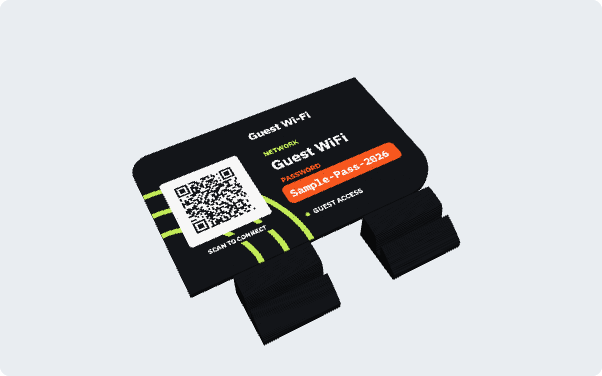
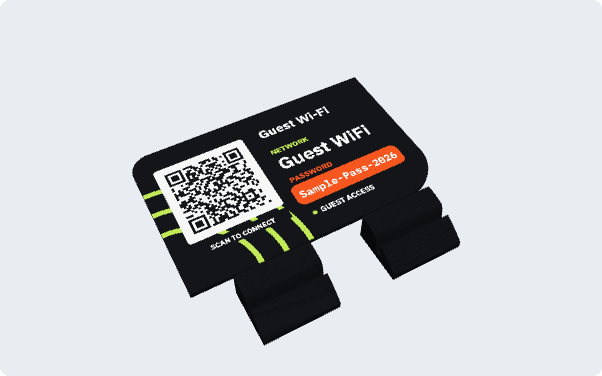
Enlarge QR and text to reduce empty space on the card

Changed region(s): [[0.2392, 0.2926, 0.6877, 0.6729]]

diff --git a/index.html b/index.html
@@ -60,7 +60,7 @@ button:hover:not(:disabled){filter:brightness(1.06)}
 .stage{display:grid;gap:16px;justify-items:center}
 .wifi-card{width:min(100%,640px);aspect-ratio:150/94;background:var(--c-base);color:var(--c-white);
   border-radius:8% 0 16% 0 / 12.766% 0 25.532% 0;
-  padding:5.5% 9% 11% 6.7%;position:relative;display:grid;grid-template-columns:auto 1fr;gap:6%;align-items:center;
+  padding:5.5% 6% 11% 6.7%;position:relative;display:grid;grid-template-columns:auto 1fr;gap:5%;align-items:center;
   container-type:inline-size;box-shadow:0 18px 40px -18px rgba(10,20,35,.55)}
 .wifi-card.framed::before{content:"";position:absolute;inset:3.191% 2%;border:2px solid var(--c-a1);pointer-events:none;
   border-radius:6.25% 0 14.58% 0 / 10.2% 0 23.9% 0}
@@ -71,17 +71,17 @@ button:hover:not(:disabled){filter:brightness(1.06)}
 .card-head{display:flex;align-items:center;gap:2.6cqi;min-width:0}
 .card-head svg{width:7cqi;height:auto;flex:none;color:var(--c-a1)}
 .card-head canvas{height:8cqi;width:auto;max-width:30cqi;flex:none}
-.card-title{font-size:4.6cqi;font-weight:700;line-height:1.15;overflow-wrap:anywhere}
-.k{font-size:2.6cqi;font-weight:700;margin:0;color:var(--c-a1)}
+.card-title{font-size:5.3cqi;font-weight:700;line-height:1.15;overflow-wrap:anywhere}
+.k{font-size:3cqi;font-weight:700;margin:0;color:var(--c-a1)}
 .k.pw{color:var(--c-a2)}
-.v{font-size:6cqi;font-weight:700;margin:0;line-height:1.25;overflow-wrap:anywhere}
-.v.pwv{font-family:"IBM Plex Mono",ui-monospace,Menlo,monospace;font-weight:600;justify-self:start;background:var(--c-a2);color:#fff;padding:.8cqi 2cqi;border-radius:2.3cqi;font-size:4.3cqi;white-space:nowrap}
-.card-foot{font-size:2.6cqi;font-weight:700;margin-top:1cqi;display:flex;align-items:center;gap:1.4cqi}
+.v{font-size:7.3cqi;font-weight:700;margin:0;line-height:1.25;overflow-wrap:anywhere}
+.v.pwv{font-family:"IBM Plex Mono",ui-monospace,Menlo,monospace;font-weight:600;justify-self:start;background:var(--c-a2);color:#fff;padding:.8cqi 2cqi;border-radius:2.6cqi;font-size:4.7cqi;white-space:nowrap}
+.card-foot{font-size:2.9cqi;font-weight:700;margin-top:1cqi;display:flex;align-items:center;gap:1.4cqi}
 .card-foot::before{content:"";width:1.4cqi;height:1.4cqi;border-radius:50%;background:var(--c-a1)}
 .qr-wrap{order:-1;align-self:end;display:grid;gap:1.4cqi;justify-items:center;position:relative;z-index:1}
-.qr-box{background:var(--c-white);border-radius:8px;padding:2cqi;width:30.67cqi}
+.qr-box{background:var(--c-white);border-radius:8px;padding:2cqi;width:36cqi}
 .qr-box svg{display:block;width:100%;height:auto}
-.qr-cap{font-size:2.3cqi;font-weight:700;background:var(--c-base);padding:.5cqi 1.6cqi;border-radius:1cqi}
+.qr-cap{font-size:2.6cqi;font-weight:700;background:var(--c-base);padding:.5cqi 1.6cqi;border-radius:1cqi}
 .actions{display:flex;flex-wrap:wrap;gap:8px;justify-content:center}
 .payload{font-family:ui-monospace,Menlo,monospace;font-size:.78rem;color:var(--muted);max-width:640px;width:100%;overflow-x:auto;white-space:nowrap;padding:8px 10px;border:1px dashed var(--line);border-radius:8px}
 
@@ -420,7 +420,7 @@ footer{grid-column:1/-1;font-size:.8rem;color:var(--muted);text-align:center}
     $("strength").textContent=sec==="nopass"?"":(warn||`推定強度: 約 ${entropyBits(m,pw)} bit`);
     $("cTitle").textContent=$("title").value;
     $("cSsid").textContent=$("ssid").value;
-    $("cPw").textContent=pw;$("cPw").style.fontSize=Math.min(4.3,44/Math.max(1,pw.length*.6))+"cqi";
+    $("cPw").textContent=pw;$("cPw").style.fontSize=Math.min(4.7,38/Math.max(1,pw.length*.6))+"cqi";
     $("cNetL").textContent=L.net;$("cPwL").textContent=L.pw;$("cScan").textContent=L.scan;
     $("cPwBlock").style.display=showPwOn()?"":"none";
     $("cFoot").textContent=$("foot").value;
@@ -474,7 +474,7 @@ footer{grid-column:1/-1;font-size:.8rem;color:var(--muted);text-align:center}
     // 左下を中心にした電波の弧。キャプション用に弧を切り欠く
     if(corner){const g=G.a1;g.lineWidth=S(3);g.lineCap="butt";
       for(const r of [38,52,66]){g.beginPath();g.arc(0,S(94),S(r),-Math.PI/2,0);g.stroke();}
-      g.globalCompositeOperation="destination-out";g.fillRect(S(11),S(72.5),S(44),S(6.5));g.globalCompositeOperation="source-over";g.lineCap="round";}
+      g.globalCompositeOperation="destination-out";g.fillRect(S(10),S(70),S(54),S(7.5));g.globalCompositeOperation="source-over";g.lineCap="round";}
     if($("frame").checked){G.a1.lineWidth=S(1.2);rrc(G.a1,S(3),S(3),S(144),S(88),[S(9),0,S(21),0]);G.a1.stroke();}
 
     // 見出し行: ロゴ（高さ12mm枠）または Wi-Fi アイコン + 見出し
@@ -482,23 +482,23 @@ footer{grid-column:1/-1;font-size:.8rem;color:var(--muted);text-align:center}
     if(logoImg){
       const asp=logoAspect(),lw=Math.min(12*asp,45),lh=lw/asp;
       const pw=Math.max(1,Math.round(S(lw))),ph=Math.max(1,Math.round(S(lh)));
-      G[$("logoLayer").value].drawImage(maskToCanvas(logoMask(pw,ph),pw,ph,"#ffffff"),Math.round(S(68)),Math.round(S(8+(12-lh)/2)));
-      headR=68+lw;
-    }else headR=64;
-    text(G.white,$("title").value,headR+4,18,7,700,SANS,136-(headR+4));
+      G[$("logoLayer").value].drawImage(maskToCanvas(logoMask(pw,ph),pw,ph,"#ffffff"),Math.round(S(72)),Math.round(S(8+(12-lh)/2)));
+      headR=72+lw;
+    }else headR=70;
+    text(G.white,$("title").value,headR+4,20,8,700,SANS,140-(headR+4));
 
-    text(G.a1,L.net,70,33,4.2,700,SANS,68);
-    text(G.white,$("ssid").value,70,45,9,700,SANS,68);
+    text(G.a1,L.net,74,34,4.6,700,SANS,66);
+    text(G.white,$("ssid").value,74,46.5,11,700,SANS,66);
     if(showPwOn()){
-      text(G.a2,L.pw,70,54.5,4.2,700,SANS,68);
-      rrc(G.a2,S(67),S(57),S(72),S(13),[S(3.5),S(3.5),S(3.5),S(3.5)]);G.a2.fill();
-      text(G.white,$("pw").value,70,66,6.5,600,MONO,66);
+      text(G.a2,L.pw,74,57,4.6,700,SANS,66);
+      rrc(G.a2,S(71),S(59.5),S(68),S(14),[S(4),S(4),S(4),S(4)]);G.a2.fill();
+      text(G.white,$("pw").value,74,69,7,600,MONO,62);
     }
-    if($("foot").value){G.a1.beginPath();G.a1.arc(S(71.6),S(79.6),S(1.2),0,Math.PI*2);G.a1.fill();text(G.white,$("foot").value,75,81,4,700,SANS,60);}
-    text(G.white,L.scan,33,77.5,3.4,700,SANS,40,"center");
+    if($("foot").value){G.a1.beginPath();G.a1.arc(S(75.6),S(80.4),S(1.3),0,Math.PI*2);G.a1.fill();text(G.white,$("foot").value,79,82,4.4,700,SANS,58);}
+    text(G.white,L.scan,37,76,3.8,700,SANS,48,"center");
 
     let moduleMm=0;
-    const px=Math.round(S(10)),py=Math.round(S(24)),P=Math.round(S(46));
+    const px=Math.round(S(10)),py=Math.round(S(14)),P=Math.round(S(54));
     rr(G.white,px,py,P,P,S(2));G.white.fill();
     G.a1.globalCompositeOperation="destination-out";rr(G.a1,px,py,P,P,S(2));G.a1.fill();G.a1.globalCompositeOperation="source-over";
     if(lastQr){
